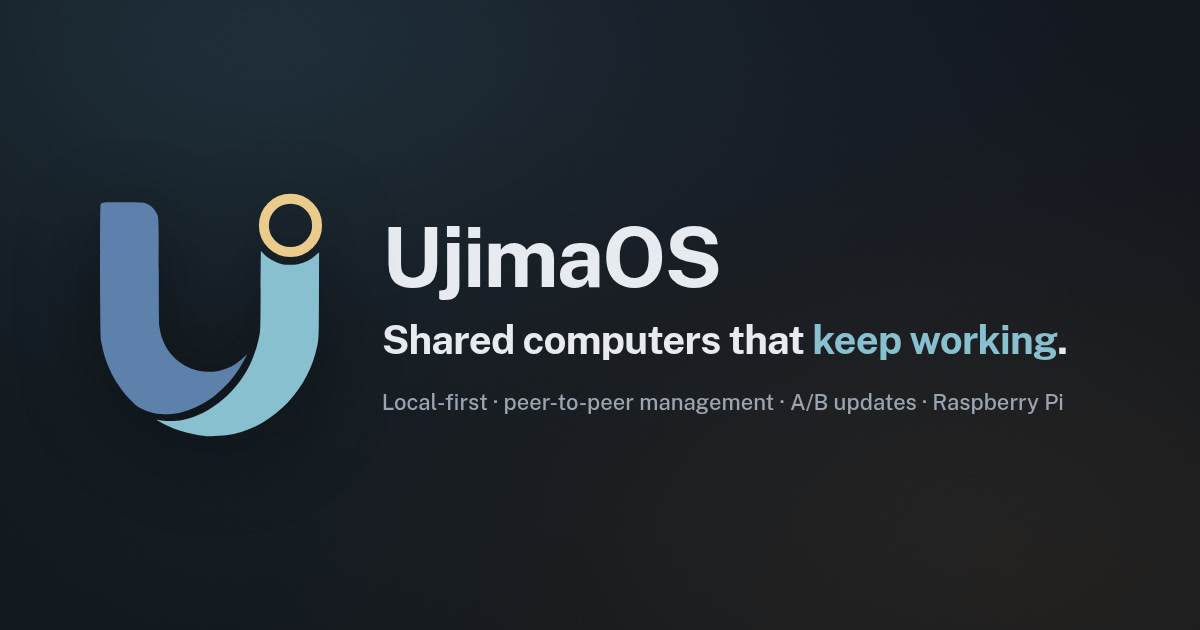
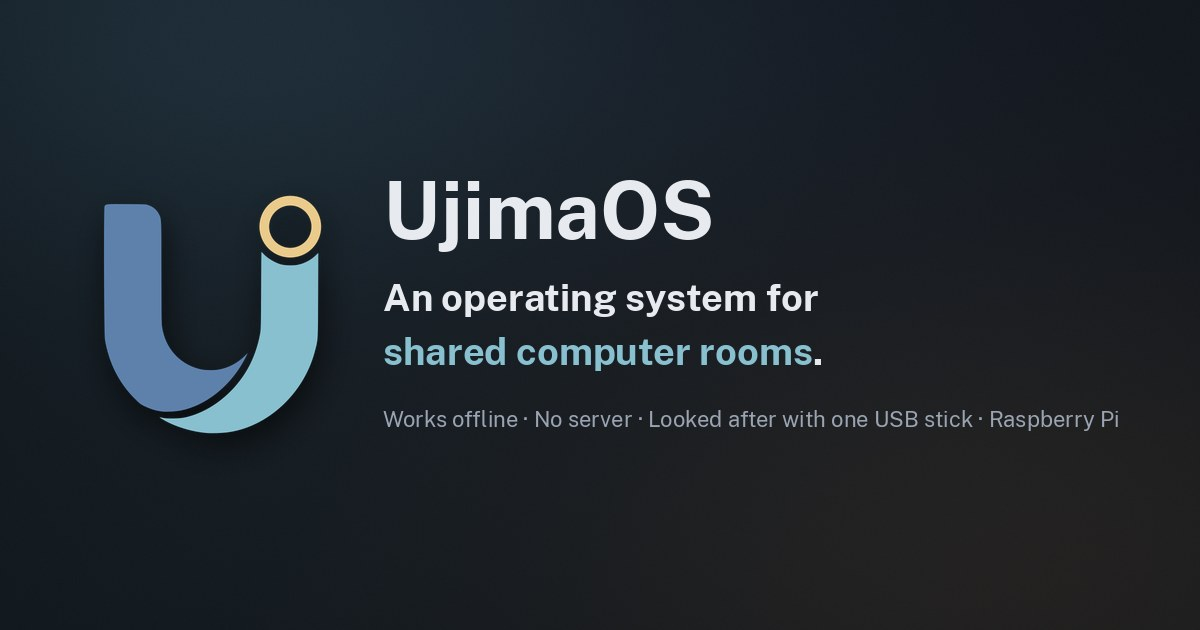
Link preview: the share card and description in the hero's words
The share image still carried the old tagline, "Shared computers that
keep working", and the description the old "local-first, peer-managed"
line. The card is redrawn in the same layout with "An operating system
for shared computer rooms." and "Works offline · No server · Looked
after with one USB stick · Raspberry Pi", and both descriptions take
the hero's sentence. The image URL gains ?v=2 so apps that cache
previews by URL fetch the new card, and its size is declared.

diff --git a/index.html b/index.html
@@ -4,12 +4,14 @@
 <meta charset="utf-8">
 <meta name="viewport" content="width=device-width, initial-scale=1">
 <title>UjimaOS — an operating system for shared computer rooms</title>
-<meta name="description" content="UjimaOS is a local-first, peer-managed operating system for rooms of shared Raspberry Pi computers: no cloud, no server, updates with a way back.">
+<meta name="description" content="UjimaOS is a Linux-based operating system for shared computer rooms: it works offline, needs no server, and is looked after with one USB stick.">
 <meta name="theme-color" content="#14171b">
 <meta property="og:title" content="UjimaOS — an operating system for shared computer rooms">
-<meta property="og:description" content="A local-first, peer-managed operating system for rooms of shared Raspberry Pi computers.">
+<meta property="og:description" content="A Linux-based operating system for shared computer rooms: it works offline, needs no server, and is looked after with one USB stick.">
 <meta property="og:url" content="https://vitalipe.github.io/ujima-os-site/">
-<meta property="og:image" content="https://vitalipe.github.io/ujima-os-site/assets/img/og.jpg">
+<meta property="og:image" content="https://vitalipe.github.io/ujima-os-site/assets/img/og.jpg?v=2">
+<meta property="og:image:width" content="1200">
+<meta property="og:image:height" content="630">
 <meta name="twitter:card" content="summary_large_image">
 <link rel="icon" href="assets/img/logo-icon.svg" type="image/svg+xml">
 <link rel="preload" href="assets/fonts/PublicSans-Bold.woff2" as="font" type="font/woff2" crossorigin>
